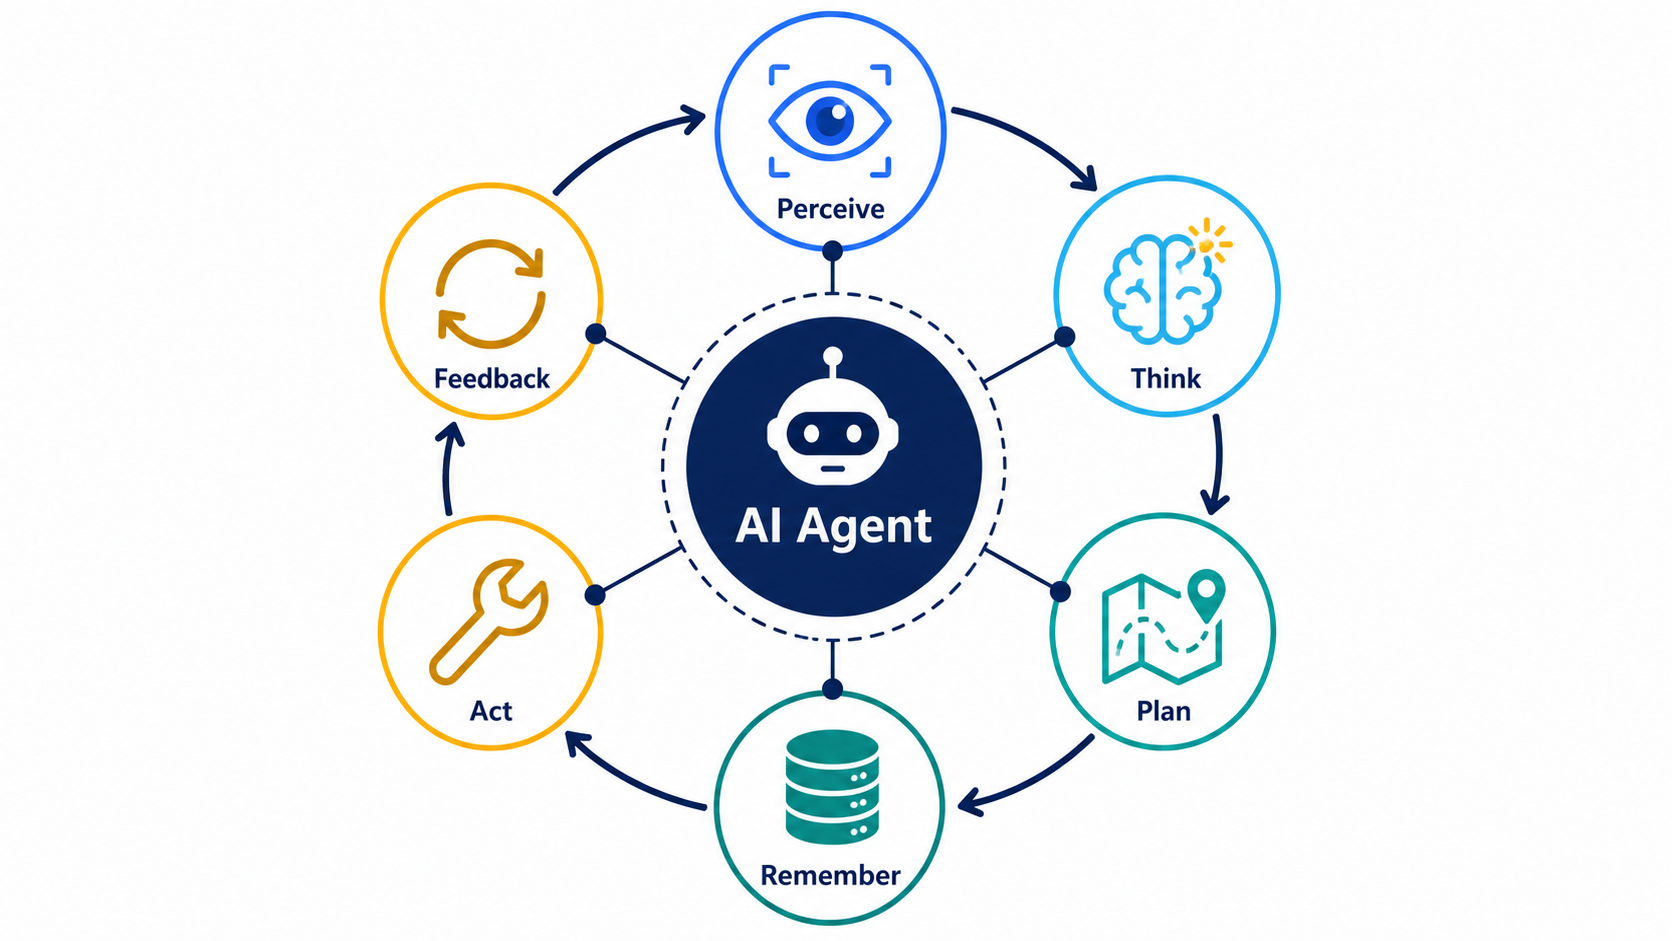
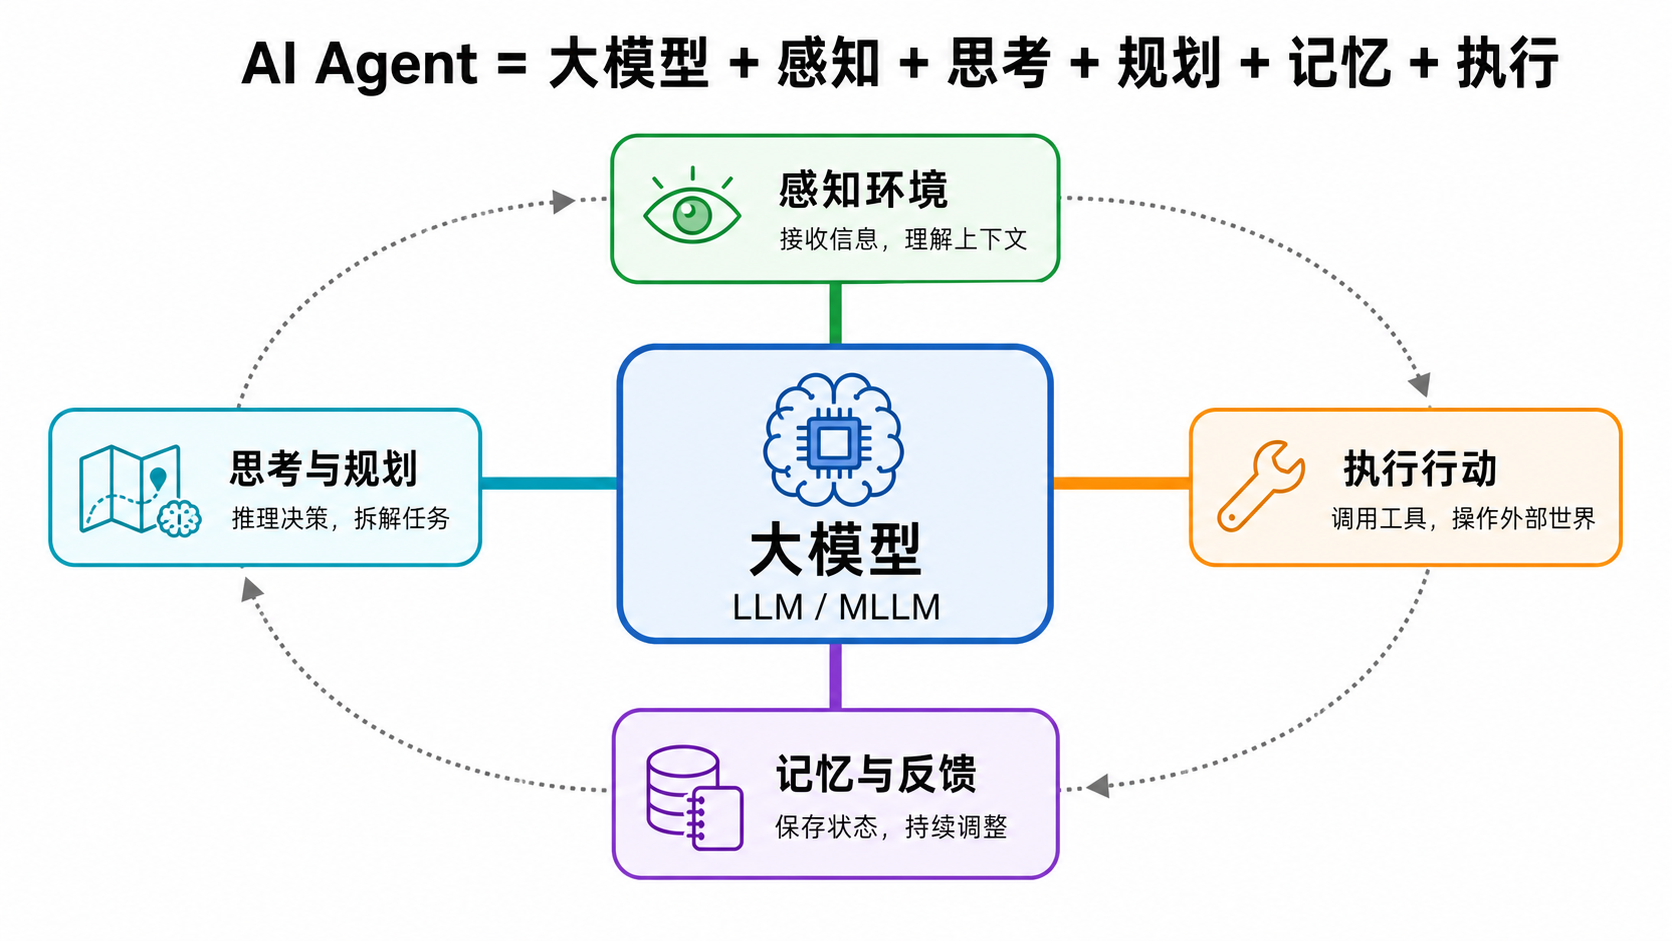
docs: improve AI Agent concept diagram

Changed region(s): [[0.0311, 0.0, 0.9641, 0.9862], [0.622, 0.8937, 0.6531, 0.9245], [0.3421, 0.8937, 0.3732, 0.9245]]

diff --git a/src/ai-application-development/agent-development.md b/src/ai-application-development/agent-development.md
@@ -22,7 +22,7 @@ tag:
 
 ![AI Agent 的感知、思考、规划、记忆、执行与反馈闭环](/assets/image/ai-agent-loop.png)
 
-*图中 Perceive、Think、Plan、Remember、Act、Feedback 分别对应感知、思考、规划、记忆、执行和反馈。它们围绕 AI Agent 形成持续循环。*
+*图中以大模型为核心，感知环境、思考与规划、执行行动、记忆与反馈共同构成 AI Agent 的持续闭环。*
 
 “Agent”这个词近两年很容易被说得很神秘：仿佛只要给大模型接上搜索和数据库，它就成了一个会自主思考的数字员工。更准确的理解是：它不仅生成回答，还会在任务过程中获取信息、作出判断、采取行动，再利用反馈调整下一步。
 
